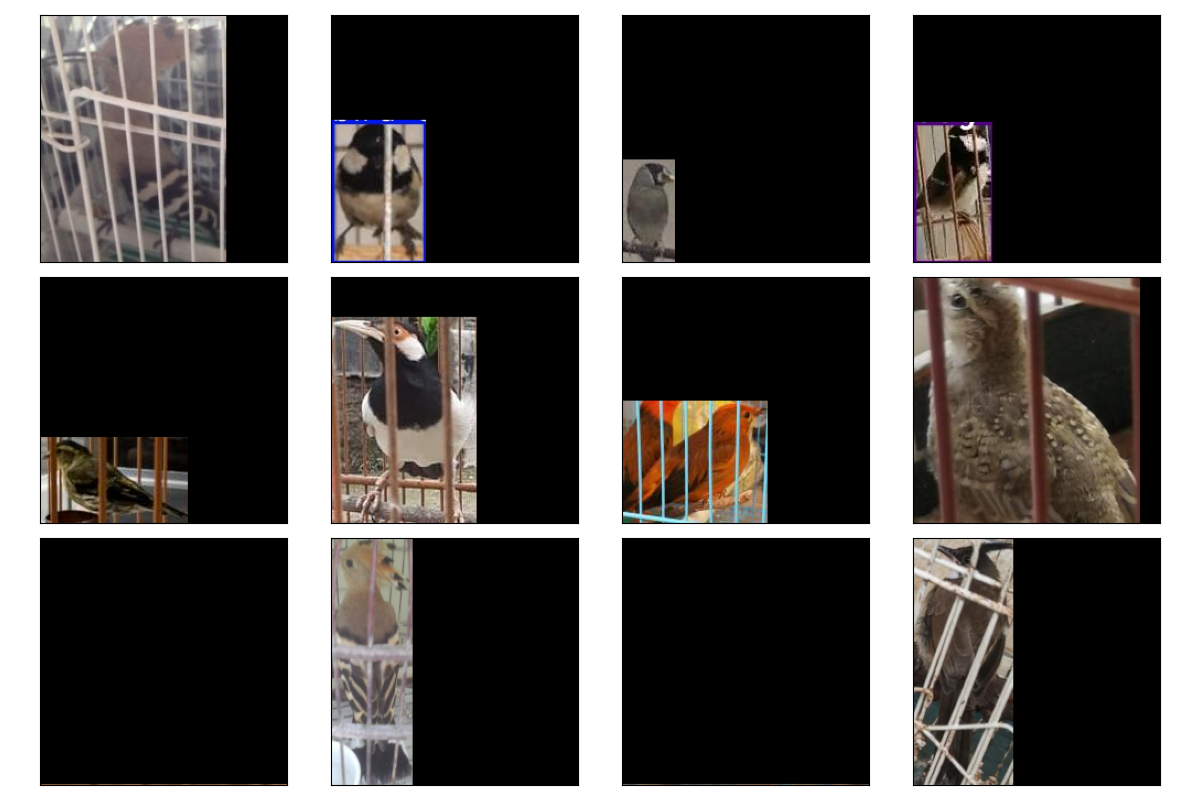
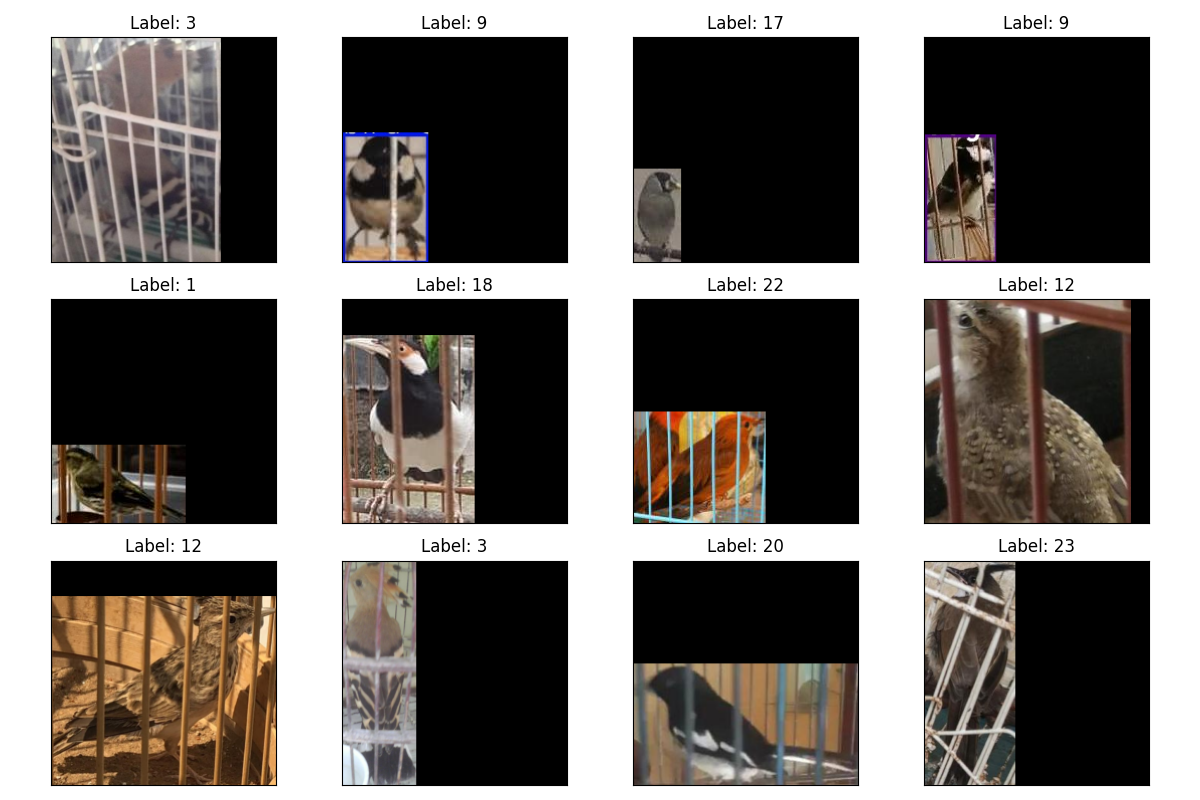
other miscellaneous files

diff --git a/ct_classifier/testing_metrics.py b/ct_classifier/testing_metrics.py
@@ -2,13 +2,14 @@
 # has to be passed into the model how the dataloader does
 
 import numpy as np
+import matplotlib.pyplot as plt
 import comet_ml
 from comet_ml import Experiment
 
 import torch
 import yaml
 
-from train import create_dataloader, load_model, experiment # experiment should add the confusion matrix to the cometML experiment    # NOTE: since we're using these functions across files, it could make sense to put them in e.g. a "util.py" script.
+from train import create_dataloader, load_model # experiment should add the confusion matrix to the cometML experiment    # NOTE: since we're using these functions across files, it could make sense to put them in e.g. a "util.py" script.
 from sklearn.metrics import confusion_matrix
 
 from util import * # To import th init seed from the util.py file in the same folder named ct_classifier
@@ -25,7 +26,7 @@ init_seed(cfg.get('seed', None))
 
 # setup entities
 dl_val = create_dataloader(cfg, split='val') # Or it could be with test, and then it should be labelled dl_test, this should in theory
-
+dl_train = create_dataloader(cfg, split='train') # Or it could be with test, and then it should be labelled dl_test, this should in theory
 
 # load 128 images (1 batch) across 29 of the classes
 
@@ -34,6 +35,30 @@ model, start_epoch = load_model(cfg)
 
 # Generate example true labels and predicted labels, start it for a few examples
 inputs, labels = next(iter(dl_val))
+
+# Display the images
+fig1 = plt.figure(figsize=(12, 8))
+for idx in range(12):
+    ax1 = fig1.add_subplot(3, 4, idx + 1, xticks=[], yticks=[])
+    # The imshow function is used to display the images, and the loop displays a sample of 12 images along with their corresponding labels
+    ax1.imshow(inputs[idx].permute(1, 2, 0)) # or is to transpose?
+
+plt.tight_layout()
+# plt.show()
+plt.savefig("val_loader.png")
+
+inputs1, labels1 = next(iter(dl_train))
+
+# Display the images
+fig2 = plt.figure(figsize=(12, 8))
+for idx in range(12):
+    ax2 = fig2.add_subplot(3, 4, idx + 1, xticks=[], yticks=[])
+    # The imshow function is used to display the images, and the loop displays a sample of 12 images along with their corresponding labels
+    ax2.imshow(inputs1[idx].permute(1, 2, 0)) # or is to transpose?
+
+plt.tight_layout()
+# plt.show()
+plt.savefig("train_loader.png")
 
 for inputs, labels in dl_val:
     # Create NumPy arrays for the inputs and the labels
@@ -51,25 +76,102 @@ for inputs, labels in dl_val:
     print(inputs.shape)
     labels = labels.numpy()
 
+
+# Build a confusion matrix for a sample of the training data as well
+for inputs1, labels1 in dl_train:
+    # Create NumPy arrays for the inputs and the labels
+
+    # print ("The labels that are being loaded for the batch")
+    # print (labels)
+
+    # Compute predictions
+    predictions1 = model(inputs1) 
+    predictions1 = predictions1.argmax(dim=1).numpy() # argmax is saying what is the index position for the largest value in a list of numbers
+    # I have to choose a number to label thi sample, hoose the inde  positin that has the highest score
+    inputs1 = inputs1.numpy()
+    # print ("Print the shape of the inputs")
+    # print (inputs)
+    print(inputs1.shape)
+    labels1 = labels1.numpy()
+
 # Calculate the confusion matrix using scikit-learn
-cm = confusion_matrix(labels, predictions)
+cm1 = confusion_matrix(labels, predictions)
 
 # the colours need to mean something - need to scale the roles
 # Plot confusion matrix to CometML
-experiment.log_confusion_matrix(matrix=cm, images=inputs, title="Confusion Matrix", labels=labels.unique) # Try and plot the labels for each of the, add labels=labels (this will print),
+
+experiment = Experiment(
+    api_key="6D79SKeAIuSjteySwQwqx96nq",
+    project_name="cagedbird-classifier"
+)
+experiment.set_name("a-resnet18_d-high_b-128_n-75_padded_images_confusion_matrix")
+
+experiment.log_confusion_matrix(matrix=cm1, images=inputs, title="Confusion Matrix 1", labels=labels) 
+# AttributeError: 'numpy.ndarray' object has no attribute 'unique'
+# Try and plot the labels for each of the, add labels=labels (this will print),
 # we just want the labels that are there in our batch, so it should be labels=labels.unique - this will show the unique labels for the batch
 # 29 classes, which are currently mapped onto numbers as well; labels[0:28]
 
-# Logs the image corresponding to the model prediction
-experiment.log_confusion_matrix(
-    y_test,
-    predictions,
-    images=x_test,
-    title="Confusion Matrix: Evaluation",
-    file_name="confusion-matrix-eval.json",
-)
+# Start a new context for the second confusion matrix, we can use this if we are adding a plot to the same matrix, how do we add context to an experiment that
+# is already connected to another one 
+# with experiment.new_context("Confusion Matrix 2"):
+# Calculate the second confusion matrix using scikit-learn
+cm2 = confusion_matrix(labels1, predictions1)# Your second confusion matrix data
+experiment.log_confusion_matrix(matrix=cm2, title="Confusion Matrix 2")
 
 # if __name__ == '__main__':
 #     # This block only gets executed if you call the "testing_metrics.py" script directly
 #     # (i.e., "python ct_classifier/testing_metrics.py").
 #     main()
+
+
+# histograms
+
+# import torch
+
+# # Model predictions
+# probs = model(test_images)  
+
+# # Ground truth labels
+# test_labels = ... 
+
+# # Get index of correct class 
+# correct_class = test_labels.argmax(dim=1)
+
+# # Get predicted probabilities for correct class
+# predicted_probs = probs[torch.arange(len(probs)), correct_class]
+
+# plt.hist(predicted_probs.numpy(), bins=20)
+
+
+# other cometML code to show the images with the confusion_matrix, but we want to show an example of how to log a confusion matrix with images using CometML,
+#     # by loading the whole batch
+
+
+#     from comet_ml import Experiment
+# import matplotlib.pyplot as plt
+
+# # Start Comet experiment
+# experiment = Experiment(project_name="confusion-matrix")
+
+# # Get predictions and images
+# preds = model.predict(x_test)
+# images = x_test 
+
+# # Calculate confusion matrix
+# from sklearn.metrics import confusion_matrix
+# cm = confusion_matrix(y_test, preds)
+
+# # Plot confusion matrix
+# plt.figure()
+# plt.imshow(cm, interpolation='nearest', cmap=plt.cm.Blues)
+# plt.title("Confusion Matrix")
+# plt.colorbar()
+# plt.tight_layout()
+
+# # Log confusion matrix plot
+# experiment.log_figure(figure=plt, figure_name="confusion-matrix.png") 
+
+# # Log some example images 
+# for i in range(5):
+#   experiment.log_image(images[i], name="image"+str(i), image_channels="first")
